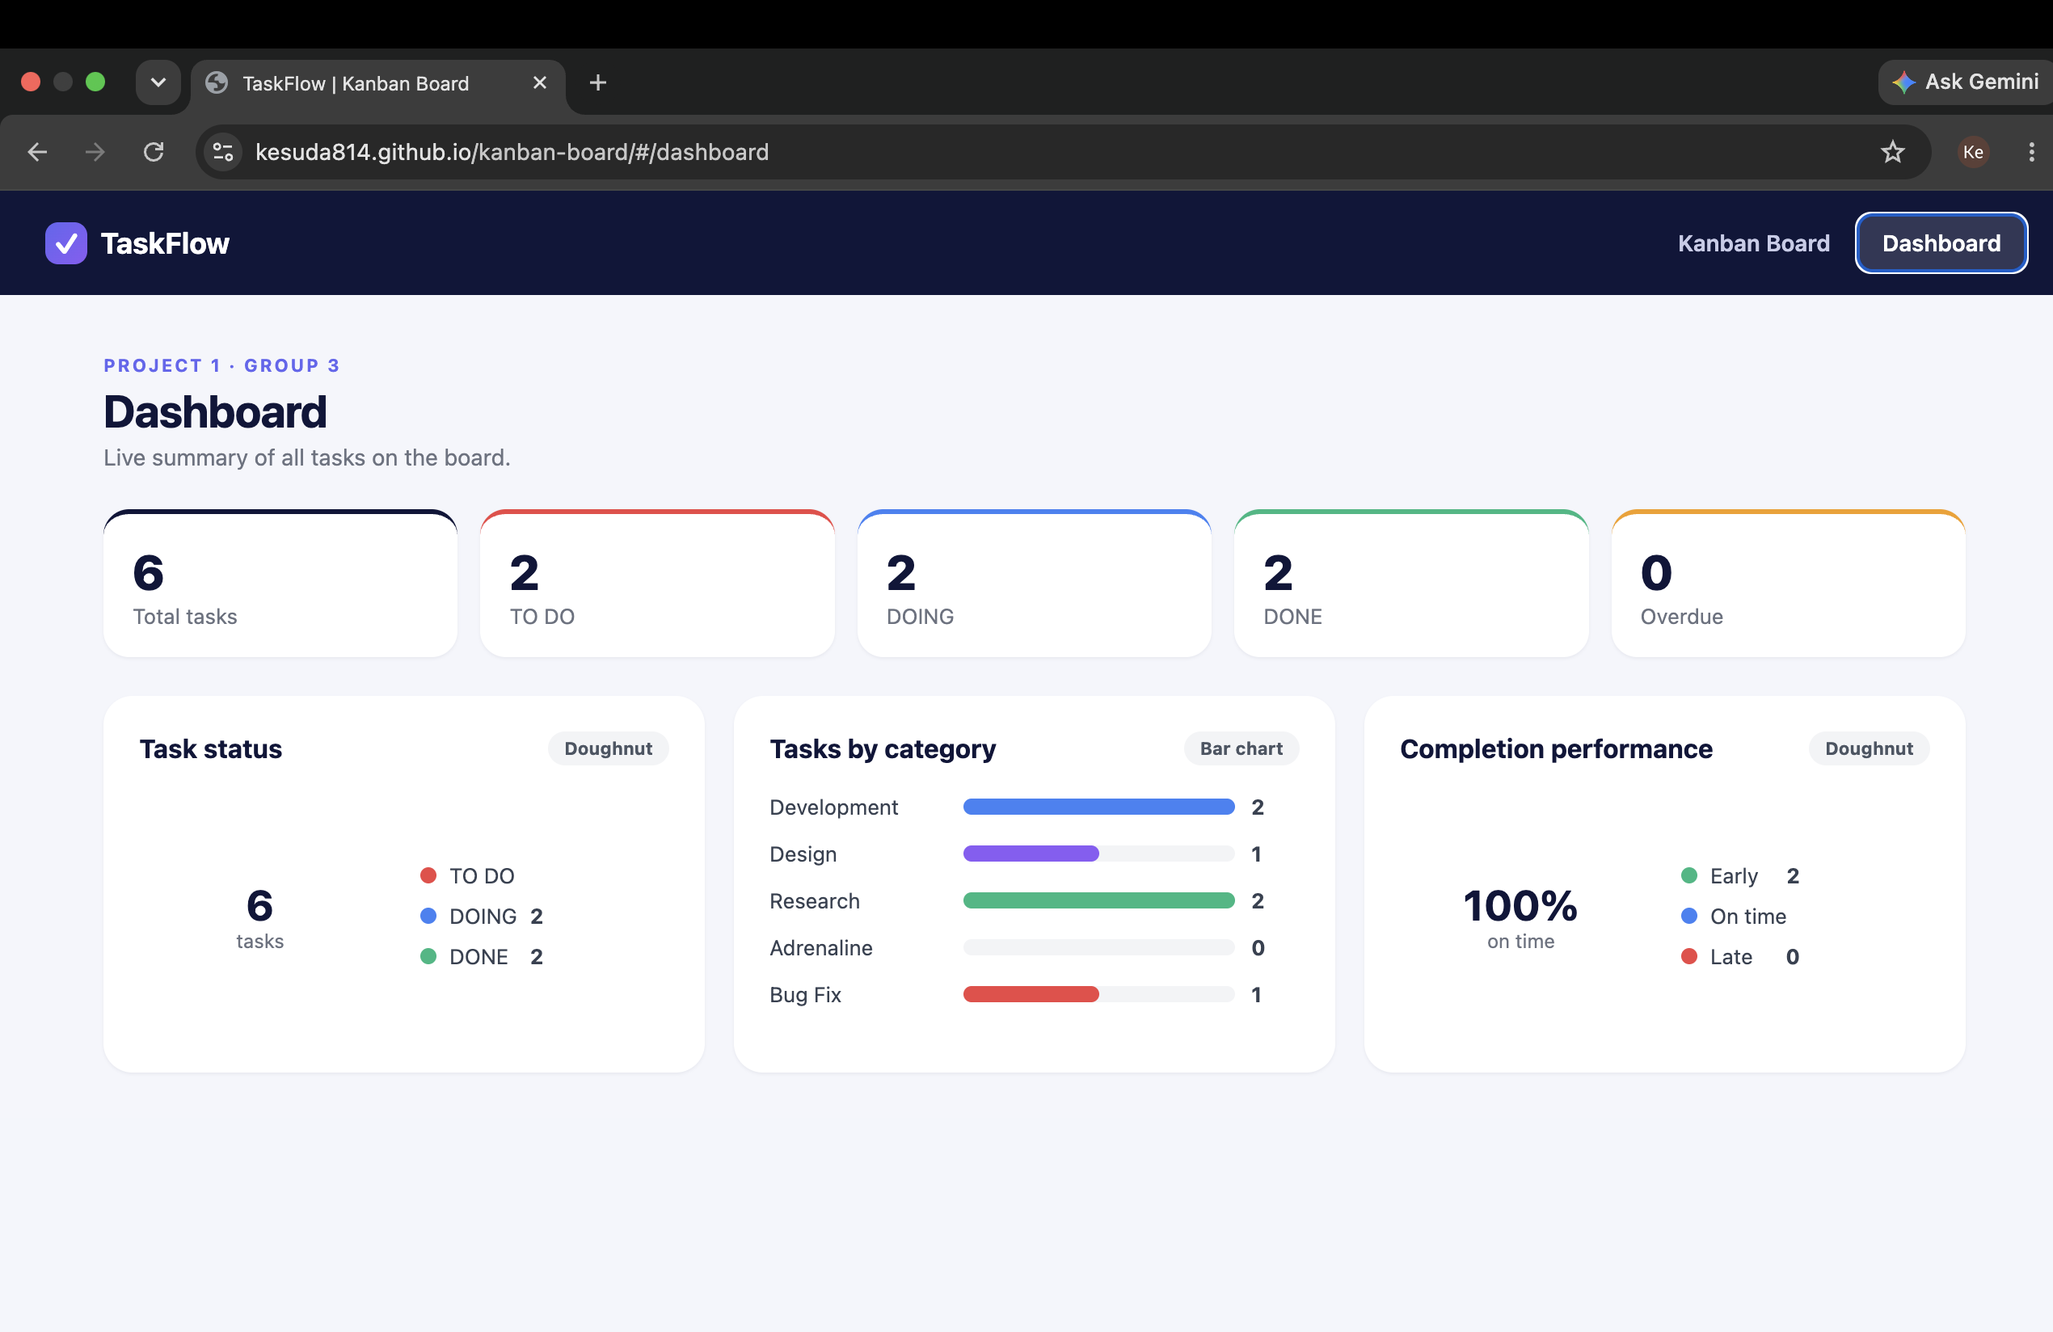
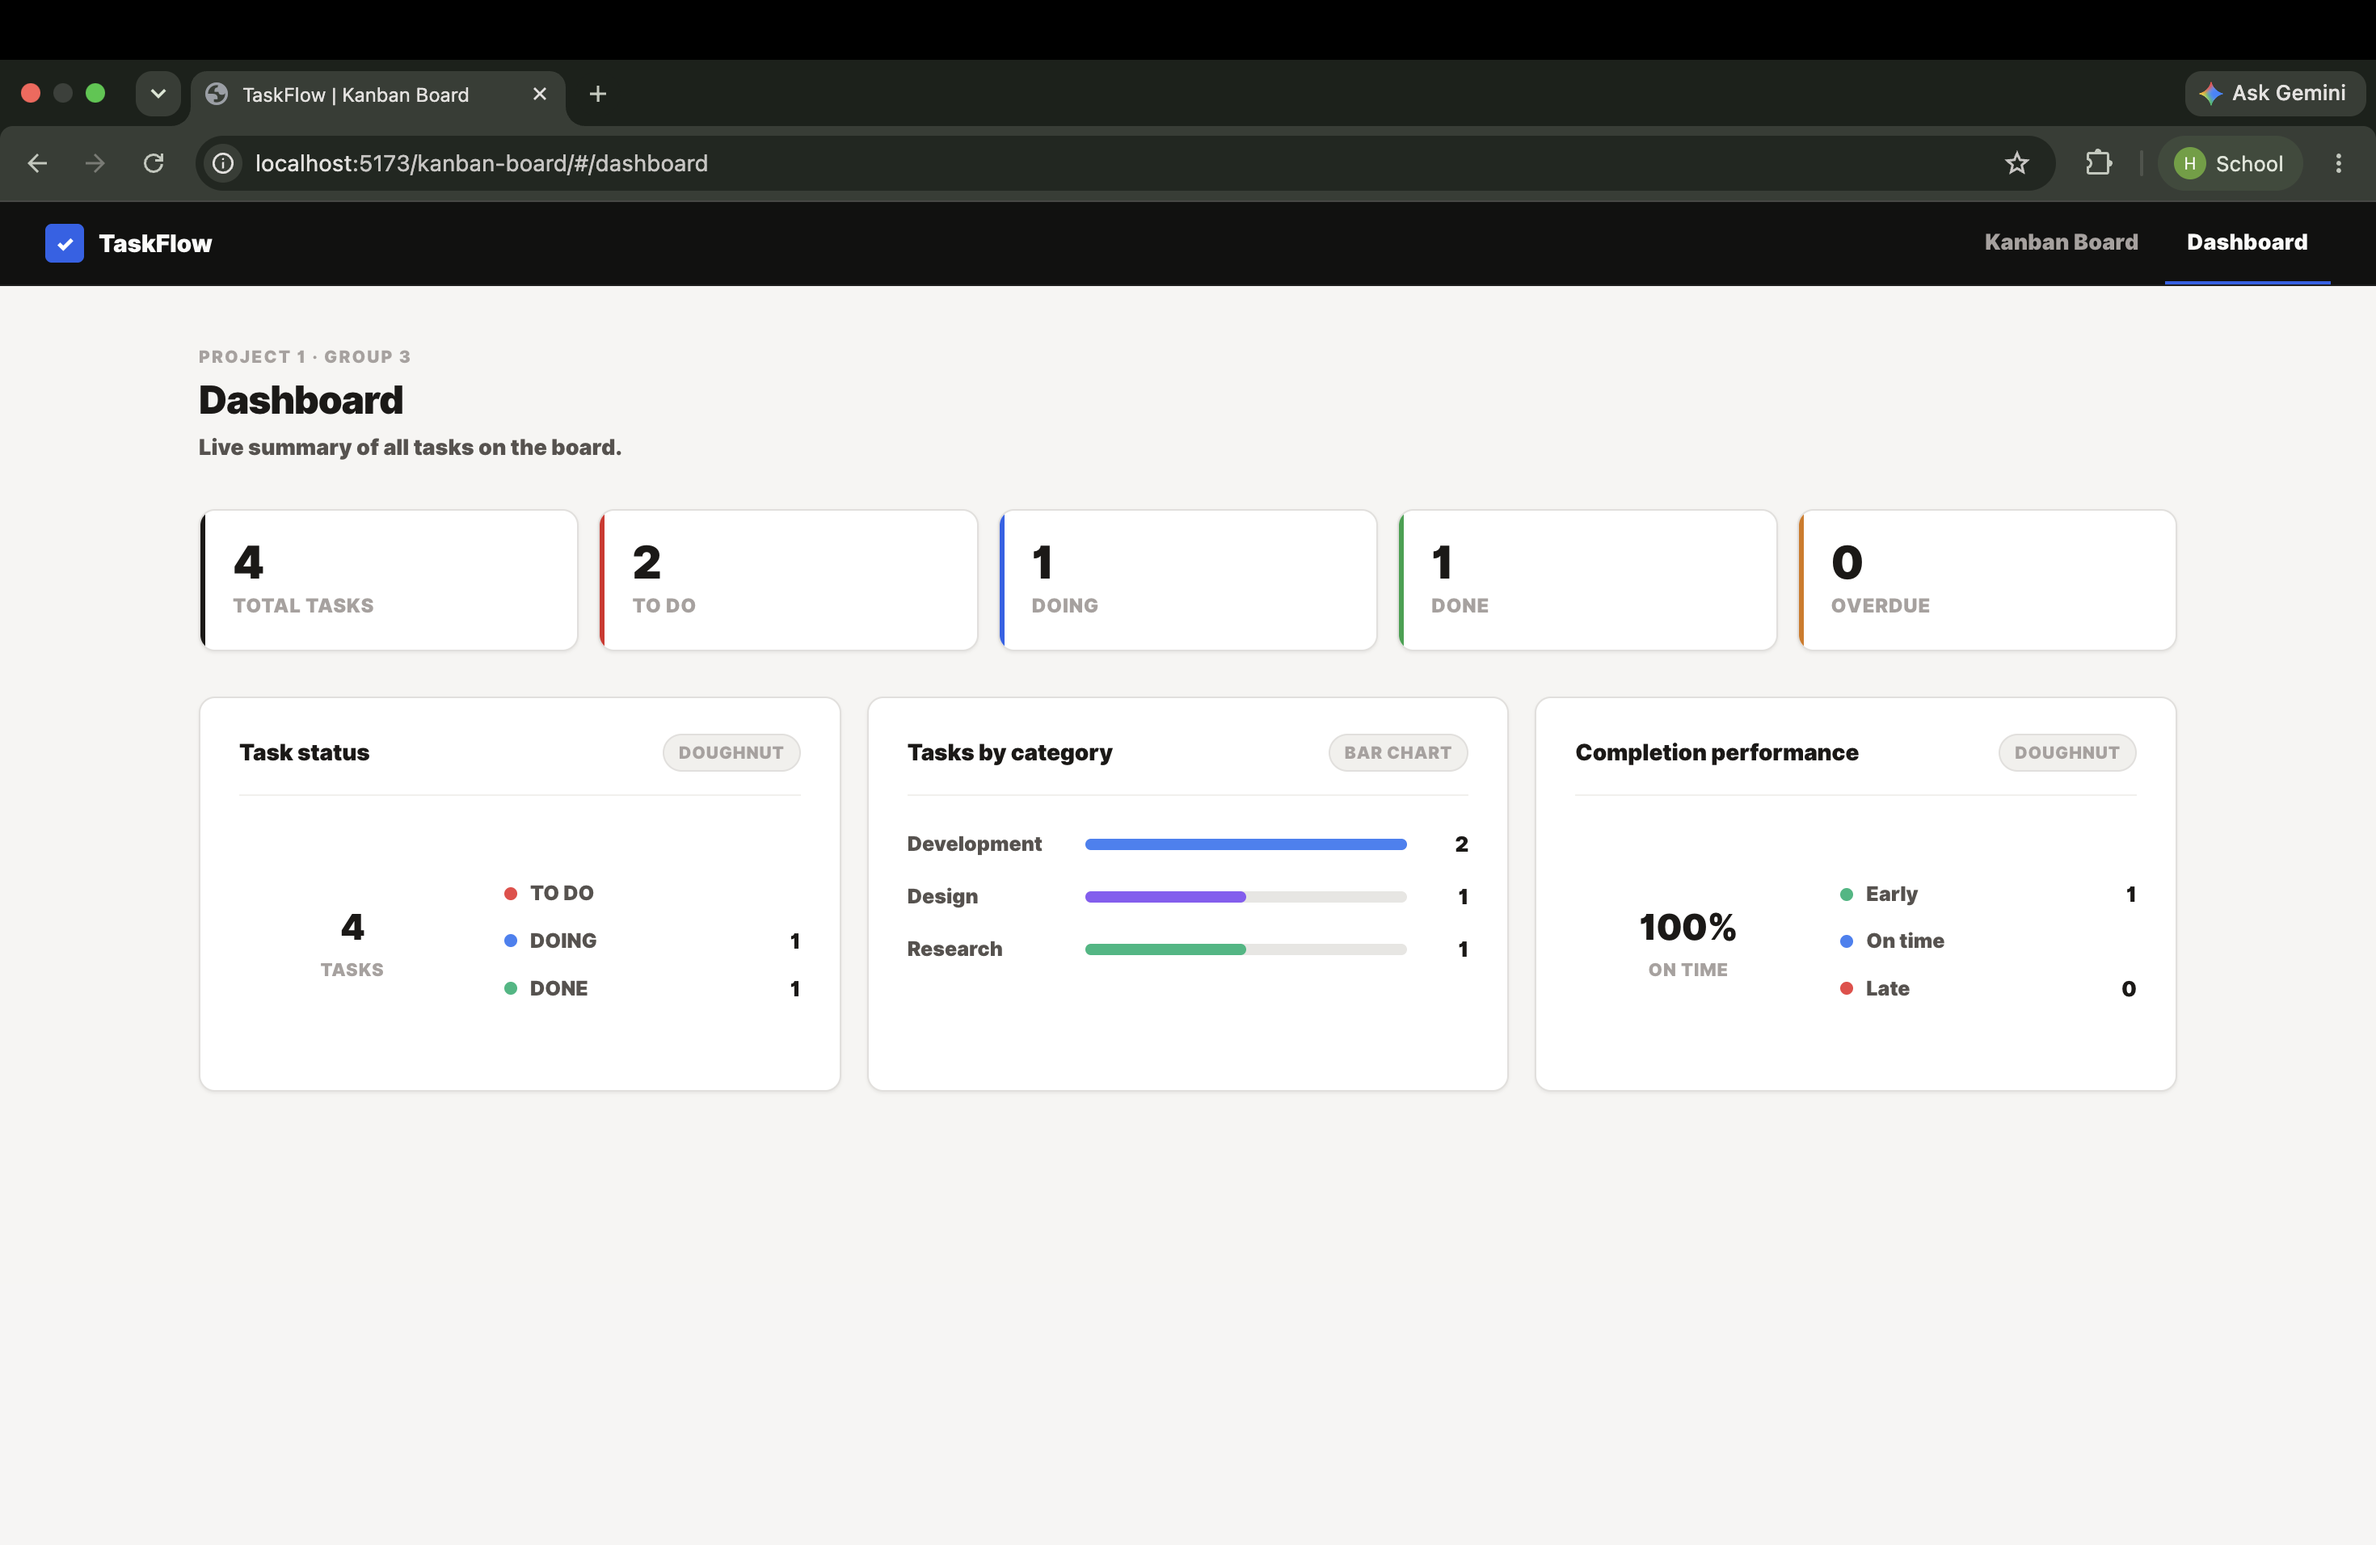
Update Readme

diff --git a/README.md b/README.md
@@ -25,9 +25,9 @@ A **JavaScript (JSX)** Kanban task-management application with a 3-column board 
 
 ## Team members
 
-- Kesuda
-- Thwe Hnin Eain
-- Hein Nyan Swen
+- Kesuda - 6736640
+- Thwe Hnin Eain - 6736673
+- Hein Nyan Swen - 6732096
 
 ## Technologies
 
